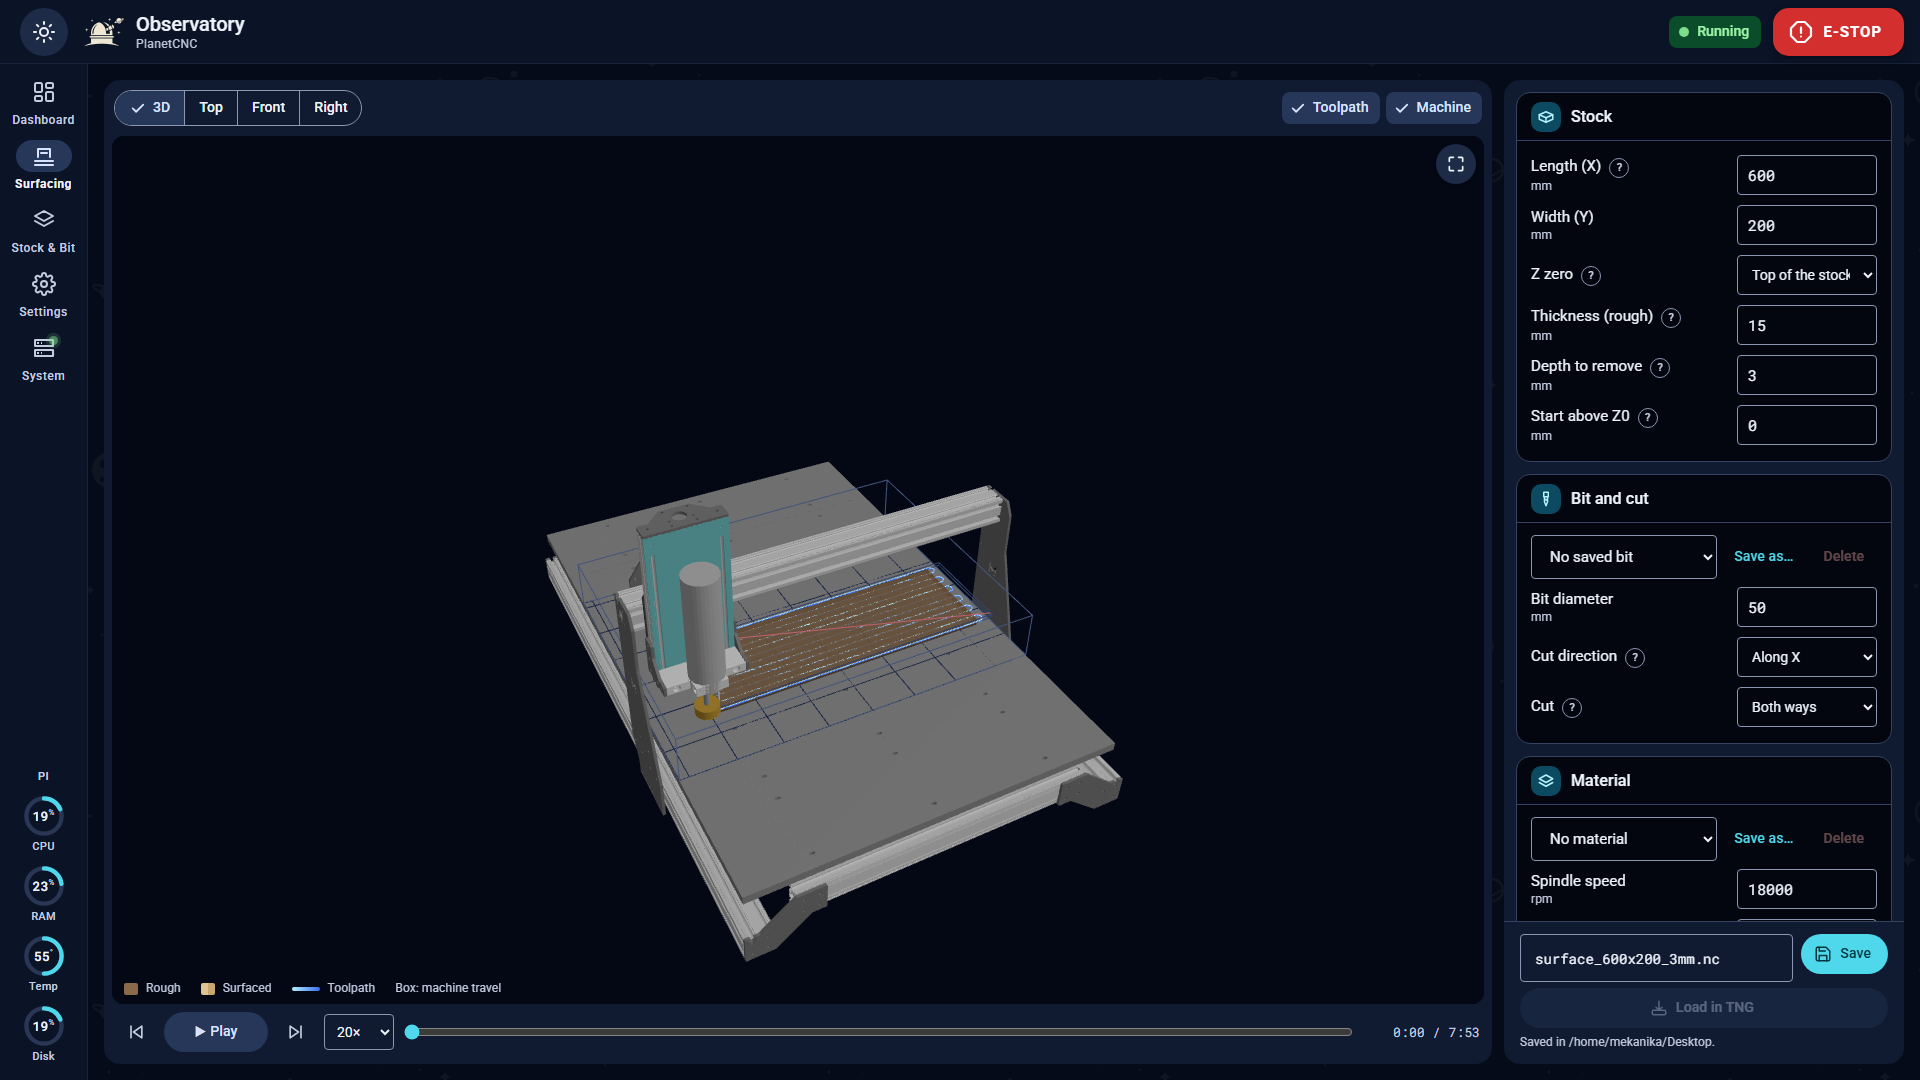
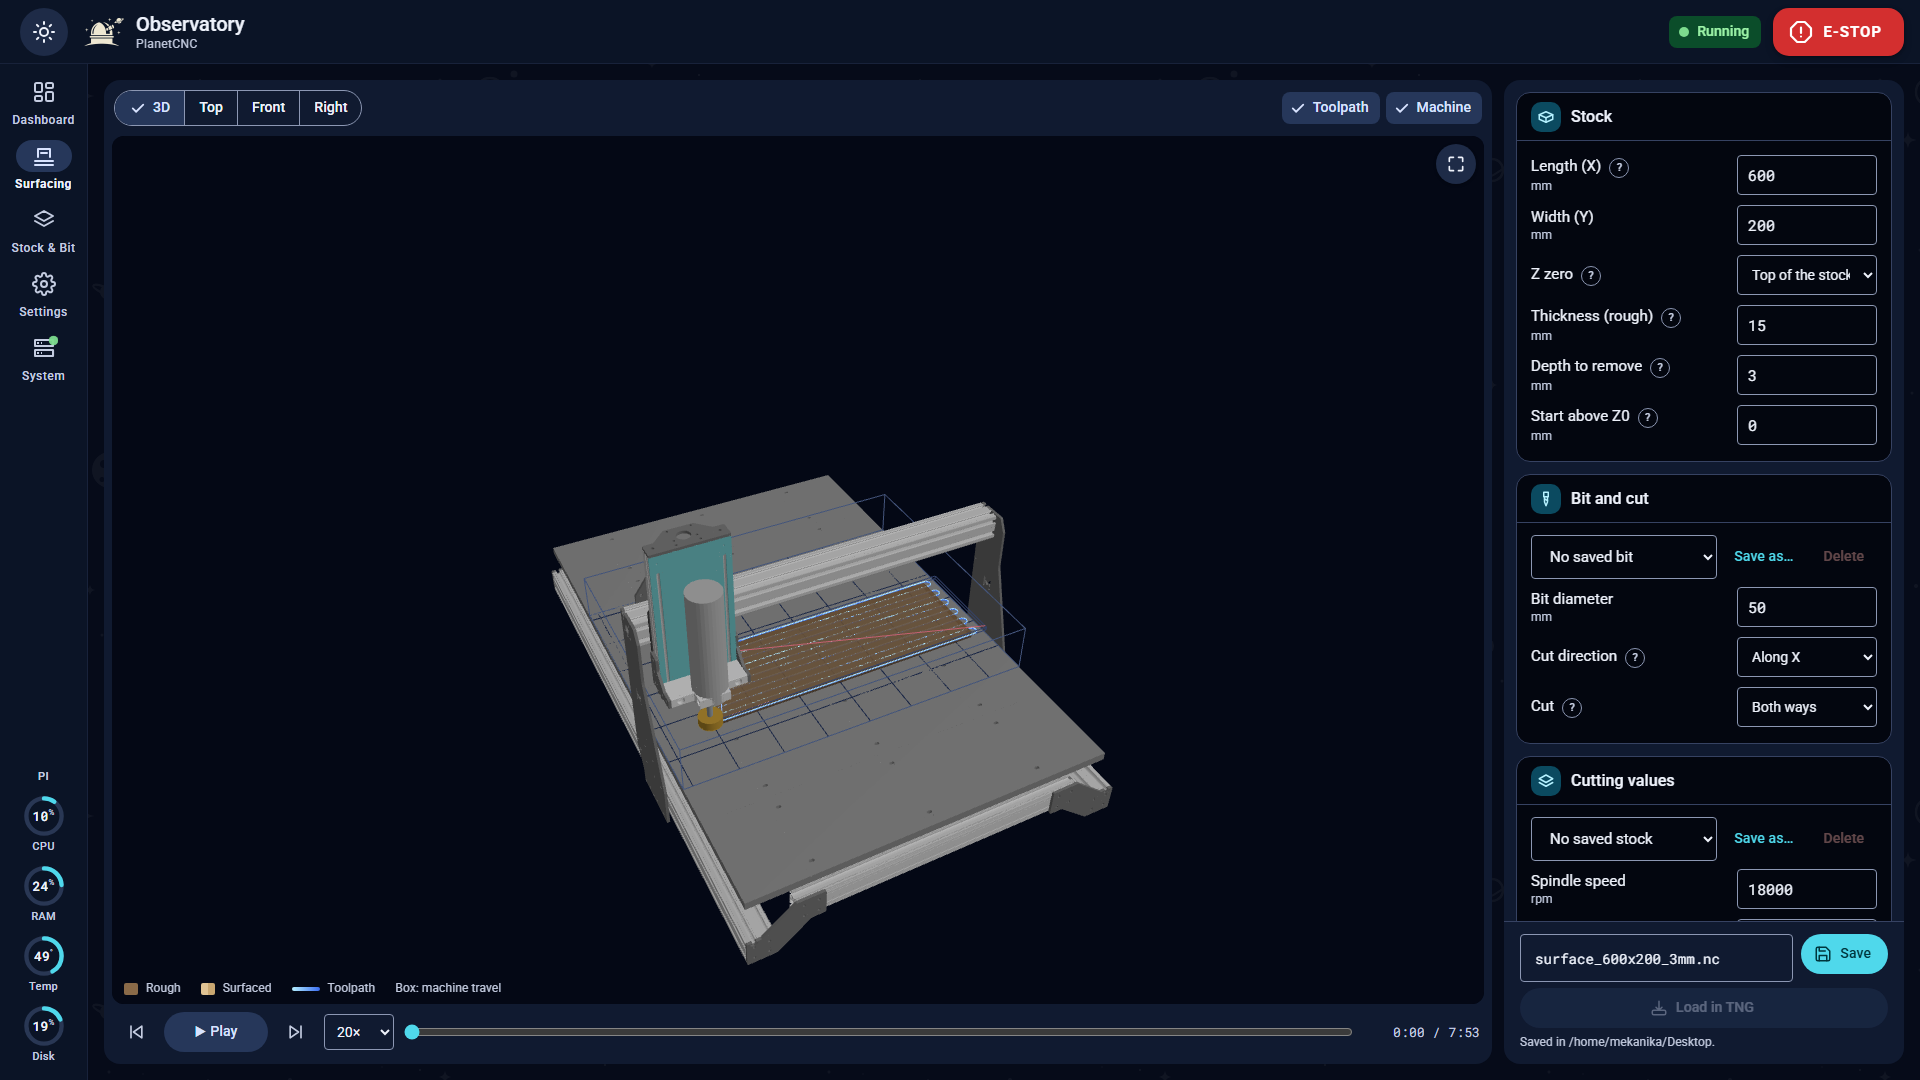
Stock instead of material, as in the menu's Stock & Bit
Surfacing page: the Material section is "Cutting values" (the page already has a
Stock section for the size), with a Stock dropdown ("No saved stock", Oak...);
Save as... and Delete talk about a stock; the link reads "Stock & Bit page".
Stock & Bit page: the Materials card is "Stock", its texts and the export file
(surfacing-stock.json) follow; the menu's tooltip too. README and the Surfacing
screenshot updated. Internal names (/materials, the API, the files) unchanged.

diff --git a/web/surfacing.js b/web/surfacing.js
@@ -17,7 +17,7 @@ import { sentence, fetchJson, UNREACHABLE } from './msg.js';
 const $ = (id) => document.getElementById(id);
 const FIELDS = ['length', 'width', 'thickness', 'zMode', 'startAbove', 'current', 'target', 'toolD', 'depth', 'direction', 'cutWay',
                 'rpm', 'feed', 'plunge', 'stepdown', 'stepover', 'safe', 'clearance', 'clearTurn', 'dwell'];
-const PRESET_KEYS = ['rpm', 'feed', 'plunge', 'stepdown', 'stepover'];   // what a material stores
+const PRESET_KEYS = ['rpm', 'feed', 'plunge', 'stepdown', 'stepover'];   // what a stock stores (its cutting values)
 const TEXT_FIELDS = new Set(['zMode', 'direction', 'cutWay']);
 const CHECK_FIELDS = new Set(['clearTurn']);
 const STORE_KEY = 'surfacing.form';
@@ -458,7 +458,7 @@ async function pollState() {
 }
 
 // ---------------------------------------------------------------- materials and bits
-// Named values kept on the Pi (the Materials page shows them all): a material holds the cutting
+// Named values kept on the Pi (the Stock & Bit page shows them all): a stock (oak...) holds the cutting
 // values, a bit its diameter. Picking one fills in the form; "Changed" shows when the form no
 // longer matches it; Save as... and Delete change the list.
 
@@ -522,7 +522,7 @@ function library(cfg) {
       lib.render(res.name);
       lib.showChanged(readForm());
       message(`Saved the ${cfg.what} ${esc(res.name)}.`, 'ok');
-      schedule();   // the file name follows the material
+      schedule();   // the file name follows the stock
     } catch (e) {
       message(`Could not save the ${cfg.what}: ${esc(e.message)}`, 'err');
     }
@@ -546,11 +546,11 @@ function library(cfg) {
 
 const materials = library({
   api: '/api/surfacing/presets', select: 'material', save: 'matSave', del: 'matDelete', msg: 'matMsg', changed: 'matChanged',
-  none: 'No material', what: 'material',
+  none: 'No saved stock', what: 'stock',
   fields: Object.fromEntries(PRESET_KEYS.map((k) => [k, k])),
   missing: 'Fill in spindle speed, feeds, step-down and stepover first.',
-  ask: { title: 'Save as a material', label: 'Material',
-         text: 'The spindle speed, feeds, step-down and stepover, under the name of a material (e.g. Oak).' },
+  ask: { title: 'Save as a stock', label: 'Stock',
+         text: 'The spindle speed, feeds, step-down and stepover, under the name of a stock (e.g. Oak).' },
 });
 const bits = library({
   api: '/api/surfacing/bits', select: 'bit', save: 'bitSave', del: 'bitDelete', msg: 'bitMsg', changed: 'bitChanged',
@@ -560,7 +560,7 @@ const bits = library({
   ask: { title: 'Save as a bit', label: 'Bit', text: 'The bit diameter, under the name of the bit (e.g. Surfacing 50 mm).' },
 });
 
-// Changed on the Materials page (another tab, or another device): pick them up when this page
+// Changed on the Stock & Bit page (another tab, or another device): pick them up when this page
 // is shown again.
 document.addEventListener('visibilitychange', async () => {
   if (document.hidden) return;

diff --git a/web/materials.html b/web/materials.html
@@ -9,7 +9,7 @@
 <title>Stock &amp; Bit – Observatory</title>
 <script src="theme-boot.js"></script>
 <link rel="stylesheet" href="style.css">
-<!-- The surfacing materials and bits: see, change, add, delete, import and export them. See materials.js. -->
+<!-- The Stock & Bit page: the stocks (cutting values per wood) and surfacing bits: see, change, add, delete, import and export them. See materials.js. -->
 </head>
 <body>
 <header class="topbar">
@@ -24,17 +24,17 @@
 <script src="topbar-boot.js"></script>
 <main class="page">
   <div class="page-wrap">
-    <section class="card" id="materialsCard" aria-label="Materials">
+    <section class="card" id="materialsCard" aria-label="Stock">
       <header class="card-h">
         <svg viewBox="0 0 24 24" aria-hidden="true"><path d="M12 3 3 8l9 5 9-5-9-5z"/><path d="m3 13 9 5 9-5"/></svg>
-        <h2 id="mtTitle">Materials</h2>
-        <button class="vbtn" type="button" data-role="import" title="Add the materials from a JSON file made with Export"><svg viewBox="0 0 24 24" aria-hidden="true"><path d="M12 16V4M7 9l5-5 5 5M5 20h14"/></svg>Import</button>
-        <button class="vbtn" type="button" data-role="export" title="Download all the materials as a JSON file"><svg viewBox="0 0 24 24" aria-hidden="true"><path d="M12 4v12M7 11l5 5 5-5M5 20h14"/></svg>Export</button>
+        <h2 id="mtTitle">Stock</h2>
+        <button class="vbtn" type="button" data-role="import" title="Add the stocks from a JSON file made with Export"><svg viewBox="0 0 24 24" aria-hidden="true"><path d="M12 16V4M7 9l5-5 5 5M5 20h14"/></svg>Import</button>
+        <button class="vbtn" type="button" data-role="export" title="Download all the stocks as a JSON file"><svg viewBox="0 0 24 24" aria-hidden="true"><path d="M12 4v12M7 11l5 5 5-5M5 20h14"/></svg>Export</button>
         <input type="file" data-role="importFile" accept=".json,application/json" hidden>
       </header>
       <div class="page-body">
-        <p class="set-help" data-help-for="mtTitle">The cutting values the Surfacing page fills in when you pick a material. Change a value and press
-          <b>Save</b> on that row; add a new material in the last row. They are kept on the Pi, so every device sees the same ones.</p>
+        <p class="set-help" data-help-for="mtTitle">The cutting values the Surfacing page fills in when you pick a stock (oak, cherry…). Change a value and press
+          <b>Save</b> on that row; add a new stock in the last row. They are kept on the Pi, so every device sees the same ones.</p>
         <div class="mt-wrap">
           <table class="mt">
             <thead><tr data-role="head"></tr></thead>

diff --git a/web/surfacing.html b/web/surfacing.html
@@ -119,11 +119,11 @@
         <p class="set-help" data-help-for="cutWay">Both ways (zigzag) is fastest. One way: every line is cut in the same direction; between lines the bit lifts and goes back in a rapid. Useful to find out whether a tramming problem or tool marks depend on the direction of travel.</p>
         </section>
 
-        <section class="pl-group" aria-label="Material and cutting values">
-        <h3><svg viewBox="0 0 24 24" aria-hidden="true"><path d="M12 4l9 5-9 5-9-5z"/><path d="M3 14l9 5 9-5"/></svg><span>Material</span> <span class="pl-changed" id="matChanged" hidden>Changed</span></h3>
+        <section class="pl-group" aria-label="Stock and cutting values">
+        <h3><svg viewBox="0 0 24 24" aria-hidden="true"><path d="M12 4l9 5-9 5-9-5z"/><path d="M3 14l9 5 9-5"/></svg><span>Cutting values</span> <span class="pl-changed" id="matChanged" hidden>Changed</span></h3>
         <div class="pl-mat">
-          <select id="material" aria-label="Material"></select>
-          <button class="vbtn text" type="button" id="matSave" title="Save these cutting values for a material">Save as…</button>
+          <select id="material" aria-label="Stock"></select>
+          <button class="vbtn text" type="button" id="matSave" title="Save these cutting values for a stock (e.g. Oak)">Save as…</button>
           <button class="vbtn text danger" type="button" id="matDelete" disabled>Delete</button>
         </div>
         <p class="pl-msg" id="matMsg" aria-live="polite"></p>
@@ -132,7 +132,7 @@
         <div class="pl-row"><label for="plunge">Plunge feed<span class="unit">mm/min</span></label><input id="plunge" type="number" step="any" min="0" inputmode="decimal"></div>
         <div class="pl-row"><label for="stepdown">Step-down<span class="unit">mm/pass</span></label><input id="stepdown" type="number" step="any" min="0" inputmode="decimal"></div>
         <div class="pl-row"><label for="stepover">Stepover<span class="unit" id="stepoverMm">% of Ø</span></label><input id="stepover" type="number" step="any" min="0" inputmode="decimal"></div>
-        <p class="pl-hint pl-mat-io"><a href="/materials">All materials and bits: change, import, export →</a></p>
+        <p class="pl-hint pl-mat-io"><a href="/materials">Stock &amp; Bit page: all stocks and bits, change, import, export →</a></p>
         </section>
 
         <section class="pl-group" aria-label="More settings">

diff --git a/web/materials.js b/web/materials.js
@@ -1,5 +1,5 @@
-// The /materials page: what the Surfacing page fills in when you pick one, in two tables:
-// - Materials: the cutting values per material (/api/surfacing/presets, surfacing_presets.json);
+// The /materials page (Stock & Bit in the menu): what the Surfacing page fills in when you pick one, in two tables:
+// - Stock: the cutting values per stock, i.e. per wood (/api/surfacing/presets, surfacing_presets.json);
 // - Surfacing bits: their diameter (/api/surfacing/bits, surfacing_bits.json).
 // Change, add, delete, import and export; renaming is saving under the new name and deleting the
 // old one. Both tables are the same code (libraryTable), told which values they hold.
@@ -199,8 +199,8 @@ function libraryTable(card, cfg) {
 }
 
 const materials = libraryTable(document.getElementById('materialsCard'), {
-  api: '/api/surfacing/presets', what: 'material', whats: 'materials', file: 'surfacing-materials.json',
-  empty: 'No materials yet: add one below, or import a file.',
+  api: '/api/surfacing/presets', what: 'stock', whats: 'stocks', file: 'surfacing-stock.json',
+  empty: 'No stocks yet: add one below, or import a file.',
   keys: [['rpm', 'Spindle speed', 'rpm'], ['feed', 'Feed', 'mm/min'], ['plunge', 'Plunge feed', 'mm/min'],
          ['stepdown', 'Step-down', 'mm/pass'], ['stepover', 'Stepover', '% of Ø']],
 });

diff --git a/web/topbar-boot.js b/web/topbar-boot.js
@@ -17,7 +17,7 @@
   var PAGES = [
     ['dashboard', '/', 'Dashboard', 'The machine, live'],
     ['surfacing', '/surfacing', 'Surfacing', 'Make a program that surfaces rough stock flat'],
-    ['materials', '/materials', 'Stock &amp; Bit', 'The materials and surfacing bits used by Surfacing'],
+    ['materials', '/materials', 'Stock &amp; Bit', 'The stocks and surfacing bits used by Surfacing'],
     ['settings', '/settings', 'Settings', 'Machine name, camera, Files folder, tool in the 3D view, Telegram and timelapse, MQTT, air quality, logs'],
     ['system', '/system', 'System', 'Versions, updates, the Raspberry Pi'],
   ];

diff --git a/README.md b/README.md
@@ -113,8 +113,8 @@ the right.*
   with a warning when the path doesn't fit.
 - A simulation of the cut: play, pause, speed and scrub through it, with the
   stock's top going from rough to surfaced and the estimated run time.
-- Cutting values saved per material (oak, cherry, …), shared by every device,
-  on a Materials page where you can change, add, delete, import and export them.
+- Cutting values saved per stock (oak, cherry, …), shared by every device,
+  on a Stock & Bit page where you can change, add, delete, import and export them.
 - The program is saved in the Files folder, and can be loaded in TNG from
   the page; you start it at the machine.
 
@@ -274,11 +274,11 @@ default the server only accepts a bridge from the Pi itself.
 | `tools/screenshots.py` | Retakes the README screenshots from the demo (on a PC, not needed on the Pi). |
 | `tools/machine_model.py` | Makes the light machine model `web/machine/evo-m.glb` from the complete CAD export (on a PC, not needed on the Pi; see [The machine in the 3D view](#the-machine-in-the-3d-view)). |
 | `media/` | The animation and screenshots in this README. |
-| `web/` | The pages (HTML, CSS, JavaScript). `style.css` holds the look of every page, day and night; `theme-boot.js` sets the day / night mode before a page is drawn; `fonts/` are Roboto and Roboto Mono, `sky.svg` the faint stars behind the cards (moved by `topbar-boot.js` as the page scrolls). `tune.js` reads and rewrites programs for the Feeds & steps window; `system-ui.js` holds the E-stop button and the System page (`system.html`, `system.js`); `topbar-boot.js` draws the top bar and the menu (and runs the day / night button) before each page is shown, and `nav.js` keeps them current; `help.js` the **?** help popups in Settings; `settings.html` and `settings.js` the Settings page; `materials.html` and `materials.js` the Materials page (materials and surfacing bits); `camera.html` is the camera page on its own; `surfacing.html`, `surfacing.js` and `surfacing-gcode.js` are the Surfacing page; `machine/evo-m.glb` is the machine drawn in the 3D view. |
+| `web/` | The pages (HTML, CSS, JavaScript). `style.css` holds the look of every page, day and night; `theme-boot.js` sets the day / night mode before a page is drawn; `fonts/` are Roboto and Roboto Mono, `sky.svg` the faint stars behind the cards (moved by `topbar-boot.js` as the page scrolls). `tune.js` reads and rewrites programs for the Feeds & steps window; `system-ui.js` holds the E-stop button and the System page (`system.html`, `system.js`); `topbar-boot.js` draws the top bar and the menu (and runs the day / night button) before each page is shown, and `nav.js` keeps them current; `help.js` the **?** help popups in Settings; `settings.html` and `settings.js` the Settings page; `materials.html` and `materials.js` the Stock & Bit page (stocks and surfacing bits); `camera.html` is the camera page on its own; `surfacing.html`, `surfacing.js` and `surfacing-gcode.js` are the Surfacing page; `machine/evo-m.glb` is the machine drawn in the 3D view. |
 | `settings.json` | Created when you change a setting in the dashboard; it also holds the Telegram bot token, the MQTT password and the Home Assistant token, so only its owner may read it. Not part of git. |
 | `timelapses/` | The last 20 job timelapses. Not part of git. |
 | `tuning.json` | The Feeds tab's log of adjusted files. Not part of git. |
-| `surfacing_presets.json` | The Surfacing page's cutting values per material. Not part of git. |
+| `surfacing_presets.json` | The Surfacing page's cutting values per stock (Stock & Bit page). Not part of git. |
 | `logs/` | The server's log files. Not part of git. |
 
 ## What you need
@@ -497,7 +497,7 @@ the page simply loads).
 
 The menu sits on the left (at the bottom on a phone): **Dashboard**,
 **Surfacing** (the [Surfacing page](#surfacing-rough-stock)), **Stock & Bit** (the
-[Materials page](#materials)), **Settings** and **System** (the [System page](#system-page)).
+[Stock & Bit page](#stock--bit)), **Settings** and **System** (the [System page](#system-page)).
 The page you are on is highlighted. A green dot on **System** means an update
 of the app or of the OS is available.
 
@@ -859,11 +859,11 @@ settings in the panel on the right.
 | Current thickness | Spoilboard only. Measured at the highest point: the first pass starts there. No default. |
 | Target thickness | Spoilboard only. The thickness you want: the last pass is at Z = target, and the program removes current − target. No default. |
 | Start above Z0 | For when you're not sure Z was touched off on the highest point: the passes start this much above Z0 and still end at the same depth, so there are more passes and the first ones only skim the high spots (or cut air) instead of one pass biting too deep there. 0 (the default) starts at the top. |
-| Bit | A saved bit fills in its diameter (**Save as…** saves the one in the form, **Delete** removes it; all of them are on the [Materials page](#materials)). **Changed** shows when the diameter no longer matches the saved bit. |
+| Bit | A saved bit fills in its diameter (**Save as…** saves the one in the form, **Delete** removes it; all of them are on the [Stock & Bit page](#stock--bit)). **Changed** shows when the diameter no longer matches the saved bit. |
 | Bit diameter | The surfacing bit, drawn at this size. |
 | Cut direction | Along X or along Y: usually along the grain. |
 | Cut | **Both ways** (zigzag, the default and fastest), or **+X only** / **−X only** (+Y / −Y when cutting along Y): every line is cut in the same direction, and between lines the bit lifts to the safe height, goes back beside the stock in a rapid and comes down there. Slower, but it shows whether a tramming problem or tool marks depend on the direction of travel. |
-| Material | A saved set of the values below (see below). |
+| Stock (under **Cutting values**) | A saved stock (Oak, Cherry, …) fills in the cutting values below (see below). |
 | Spindle speed, Feed, Plunge feed | Plunge feed is for going down to each pass, which always happens beside the stock. |
 | Step-down | Depth per pass at most. The depth is split into equal passes. |
 | Stepover | Sideways step between lines, as % of the bit diameter (40 % is a good start). |
@@ -907,17 +907,17 @@ surfaced (light) where the bit passes, in two close tones that take turns from
 one pass to the next, so each pass shows apart. The run time is estimated from the feeds,
 with rapids at 5000 mm/min.
 
-**Materials.** **Save as…** stores the spindle speed, feeds, step-down and
-stepover under a name (Oak, Cherry, …); picking it later fills them in. The
-stock size, bit and depth (or thicknesses) are entered each time. "changed" next to the title
-means the form no longer matches the saved material. Materials are kept on
-the Pi in `surfacing_presets.json`, so every device sees the same ones. To see
-them all, change, rename, import or export them, use the
-[Materials page](#materials) (the link under the material list, or
-**Stock & Bit** in the menu).
+**Stocks.** In **Cutting values**, **Save as…** stores the spindle speed, feeds,
+step-down and stepover under the name of a stock (Oak, Cherry, …); picking it
+later fills them in. The stock size, bit and depth (or thicknesses) are
+entered each time. **Changed** next to the title means the form no longer
+matches the saved stock. Stocks are kept on the Pi in `surfacing_presets.json`,
+so every device sees the same ones. To see them all, change, rename, import or
+export them, use the [Stock & Bit page](#stock--bit) (the link under the
+cutting values, or **Stock & Bit** in the menu).
 
 **Save** writes the program to the top of the Files folder (set in Settings),
-named after the material, size and depth, e.g. `surface_oak_600x200_3mm.nc`
+named after the stock, size and depth, e.g. `surface_oak_600x200_3mm.nc`
 (`…_to22mm.nc` with Z zero on the spoilboard); you
 can type another name. If the file exists, it asks before replacing it.
 **Load in TNG** opens it in TNG, ready to run, without saving it in the Files
@@ -926,12 +926,12 @@ latest one is kept), named as in the name field. It is greyed out while the
 machine runs or TNG isn't connected. Starting
 the program always happens at the machine. The last values entered are remembered in the browser.
 
-### Materials
+### Stock & Bit
 
 **http://&lt;pi-address&gt;:8080/materials** (or **Stock & Bit** in the
 menu) shows what the Surfacing page can fill in for you, in two tables:
 
-- **Materials:** name, spindle speed, feed, plunge feed, step-down and stepover
+- **Stock:** name (the wood: oak, cherry…), spindle speed, feed, plunge feed, step-down and stepover
   (% of the bit diameter).
 - **Surfacing bits:** name and diameter.
 
@@ -941,7 +941,7 @@ In both:
   **Save** button lights up. Saving under another name renames it.
 - **Delete** removes one (after asking).
 - **Add** one in the last row: a name and all the values, above 0.
-- **Export** downloads all of them as `surfacing-materials.json` or
+- **Export** downloads all of them as `surfacing-stock.json` or
   `surfacing-bits.json`: a backup (they only live on the Pi, in
   `surfacing_presets.json` and `surfacing_bits.json`), or to move them to another Pi.
 - **Import** adds them from such a file. If some names already exist, it asks
@@ -1397,7 +1397,7 @@ sudo systemctl start planetcnc-web
 journalctl -u planetcnc-web -n 20 --no-pager  # "Observatory on http://..."
 ```
 
-Settings, the Feeds log, the materials, the logs and the timelapses are inside
+Settings, the Feeds log, the stocks and bits, the logs and the timelapses are inside
 the folder, so they move with it. The sudo rule from `setup-sudo.sh` and the
 bridge in TNG's profile don't refer to the folder: they need no change. The
 service keeps its name, `planetcnc-web`.
